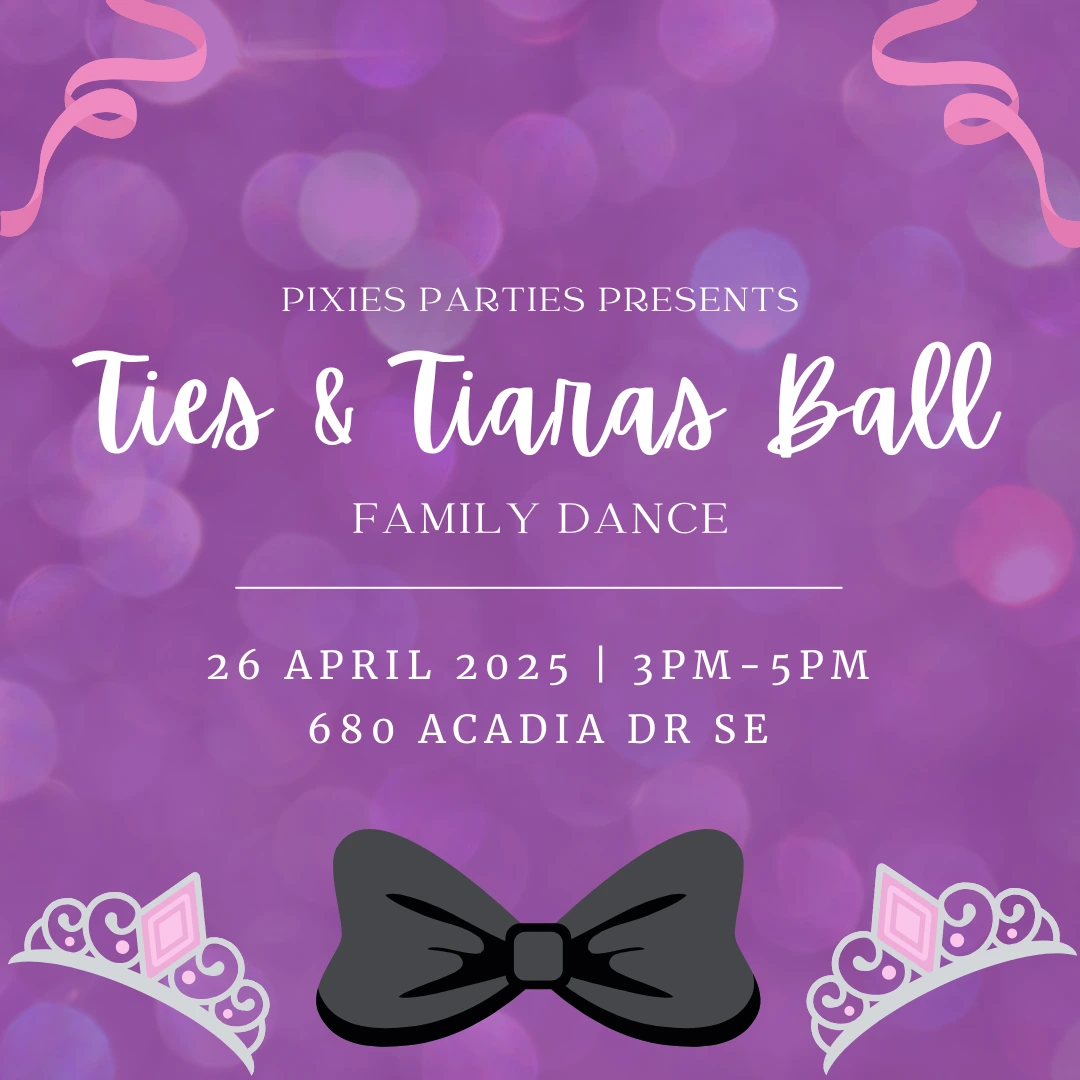
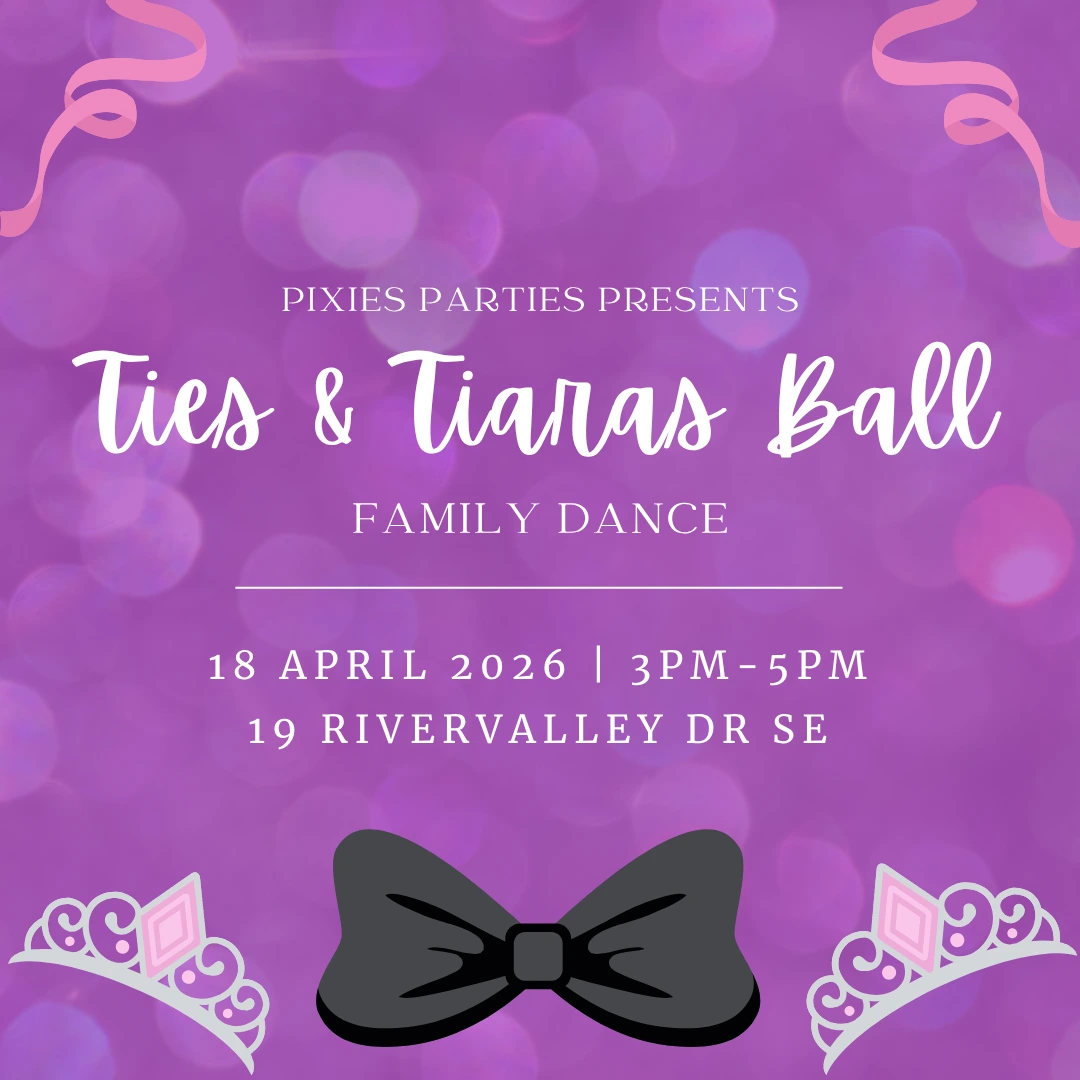
ties and tiaras ball 2026

Changed region(s): [[0.1833, 0.5806, 0.825, 0.7028]]

diff --git a/events.html b/events.html
@@ -17,18 +17,18 @@
       "@context": "https://schema.org",
       "@type": "SocialEvent",
       "name": "Ties and Tiaras Ball",
-      "startDate": "2025-04-26T15:00-06:00",
-      "endDate": "2025-04-26T17:00-06:00",
+      "startDate": "2026-04-18T15:00-06:00",
+      "endDate": "2026-04-18T17:00-06:00",
       "eventAttendanceMode": "https://schema.org/OfflineEventAttendanceMode",
       "eventStatus": "https://schema.org/EventScheduled",
       "location": {
         "@type": "Place",
-        "name": "Willow Ridge Community Association",
+        "name": "Riverbend Community Association",
         "address": {
           "@type": "PostalAddress",
-          "streetAddress": "680 Acadia Dr SE",
+          "streetAddress": "19 Rivervalley Drive SE",
           "addressLocality": "Calgary",
-          "postalCode": "T2J 0C1",
+          "postalCode": "T2C 3Z7",
           "addressRegion": "AB",
           "addressCountry": "CA"
         }
@@ -46,46 +46,46 @@
         {
             "@type": "AggregateOffer",
             "availability": "InStock",
-            "availabilityEnds": "2025-04-26T00:00:00Z",
-            "availabilityStarts": "2025-01-04T07:00:00Z",
-            "highPrice": 25,
+            "availabilityEnds": "2026-04-18T00:00:00Z",
+            "availabilityStarts": "2025-11-20T07:00:00Z",
+            "highPrice": 30,
             "lowPrice": 15,
             "priceCurrency": "CAD",
-            "url": "https://simpli.events/e/tiesandtiarasball2025",
-            "validFrom": "2025-01-04T07:00:00Z"
+            "url": "https://simpli.events/e/ties-and-tiaras-ball-2026",
+            "validFrom": "2025-11-20T07:00:00Z"
         },
         {
             "@type": "Offer",
             "availability": "InStock",
-            "availabilityEnds": "2025-04-26T00:00:00Z",
-            "availabilityStarts": "2025-01-04T07:00:00Z",
+            "availabilityEnds": "2026-04-18T00:00:00Z",
+            "availabilityStarts": "2025-11-20T07:00:00Z",
             "name": "Adult Admission",
             "price": 15,
             "priceCurrency": "CAD",
-            "url": "https://simpli.events/e/tiesandtiarasball2025",
-            "validFrom": "2025-01-04T07:00:00Z"
+            "url": "https://simpli.events/e/ties-and-tiaras-ball-2026",
+            "validFrom": "2025-11-20T07:00:00Z"
         },
         {
             "@type": "Offer",
             "availability": "InStock",
-            "availabilityEnds": "2025-04-26T00:00:00Z",
-            "availabilityStarts": "2025-01-04T07:00:00Z",
+            "availabilityEnds": "2026-04-18T00:00:00Z",
+            "availabilityStarts": "2025-11-20T07:00:00Z",
             "name": "Child Admission",
-            "price": 25,
+            "price": 30,
             "priceCurrency": "CAD",
-            "url": "https://simpli.events/e/tiesandtiarasball2025",
-            "validFrom": "2025-01-04T07:00:00Z"
+            "url": "https://simpli.events/e/ties-and-tiaras-ball-2026",
+            "validFrom": "2025-11-20T07:00:00Z"
         },
         {
             "@type": "Offer",
             "availability": "InStock",
-            "availabilityEnds": "2025-04-26T00:00:00Z",
-            "availabilityStarts": "2025-01-04T07:00:00Z",
+            "availabilityEnds": "2026-04-18T00:00:00Z",
+            "availabilityStarts": "2025-11-20T07:00:00Z",
             "name": "Tiara",
             "price": 15,
             "priceCurrency": "CAD",
-            "url": "https://simpli.events/e/tiesandtiarasball2025",
-            "validFrom": "2025-01-04T07:00:00Z"
+            "url": "https://simpli.events/e/ties-and-tiaras-ball-2026",
+            "validFrom": "2025-11-20T07:00:00Z"
         }
     ],
       "performer": {
@@ -143,29 +143,29 @@
 			<div class="card w-100 bg-secondary text-white mb-3">
 				<div class="row g-0 p-2">
 					<div class="col-md-5">
-					  <!-- <img src="assets/img/events/tiestiaras1.webp" class="img-fluid rounded-start" alt="Ties and Tiaras Ball 2025"> -->
+					  <!-- <img src="assets/img/events/tiestiaras1.webp" class="img-fluid rounded-start" alt="Ties and Tiaras Ball 2026"> -->
 					  <div id="carouselExample" class="carousel slide rounded-start carousel-fade" data-bs-ride="carousel">
 						  <div class="carousel-inner">
 							<div class="carousel-item active">
-							  <img src="assets/img/events/tiestiaras1.webp" class="d-block w-100" alt="Ties and Tiaras Ball 2025">
+							  <img src="assets/img/events/tiestiaras1.webp" class="d-block w-100" alt="Ties and Tiaras Ball 2026">
 							</div>
 							<div class="carousel-item">
-							  <img src="assets/img/events/ttb3.webp" class="d-block w-100" alt="Ties and Tiaras Ball 2025">
+							  <img src="assets/img/events/ttb3.webp" class="d-block w-100" alt="Ties and Tiaras Ball 2026">
 							</div>
 							<div class="carousel-item">
-							  <img src="assets/img/events/ttb2.webp" class="d-block w-100" alt="Ties and Tiaras Ball 2025">
+							  <img src="assets/img/events/ttb2.webp" class="d-block w-100" alt="Ties and Tiaras Ball 2026">
 							</div>
 							<div class="carousel-item">
-							  <img src="assets/img/events/ttb1.webp" class="d-block w-100" alt="Ties and Tiaras Ball 2025">
+							  <img src="assets/img/events/ttb1.webp" class="d-block w-100" alt="Ties and Tiaras Ball 2026">
 							</div>
 							<div class="carousel-item">
-							  <img src="assets/img/events/ttb4.webp" class="d-block w-100" alt="Ties and Tiaras Ball 2025">
+							  <img src="assets/img/events/ttb4.webp" class="d-block w-100" alt="Ties and Tiaras Ball 2026">
 							</div>
 							<div class="carousel-item">
-							  <img src="assets/img/events/crafts.webp" class="d-block w-100" alt="Ties and Tiaras Ball 2025">
+							  <img src="assets/img/events/crafts.webp" class="d-block w-100" alt="Ties and Tiaras Ball 2026">
 							</div>
 							<div class="carousel-item">
-							  <img src="assets/img/events/cakesbyfreya.webp" class="d-block w-100" alt="Ties and Tiaras Ball 2025">
+							  <img src="assets/img/events/cakesbyfreya.webp" class="d-block w-100" alt="Ties and Tiaras Ball 2026">
 							</div>
 						  </div>
 						  <button class="carousel-control-prev" type="button" data-bs-target="#carouselExample" data-bs-slide="prev">
@@ -181,14 +181,14 @@
 					<div class="col-md-1">
 					</div>
 					<div class="col-md-6" style="align-content: center;padding: 2rem;">
-						<h2 class="card-title">2025 Ties and Tiaras Ball</h2>
-						<p>Step into a magical world of fun and fantasy at the <strong>Ties and Tiaras Ball!</strong> Join us on <strong>Saturday, April 26th, 2025</strong>, from <strong>3:00 PM to 5:00 PM</strong> at Willow Ridge Community Association, for an unforgettable afternoon filled with joy and family-friendly activities.</p>
+						<h2 class="card-title">2026 Ties and Tiaras Ball</h2>
+						<p>Step into a magical world of fun and fantasy at the <strong>Ties and Tiaras Ball!</strong> Join us on <strong>Saturday, April 18th, 2026</strong>, from <strong>3:00 PM to 5:00 PM</strong> at Riverbend Community Association, for an unforgettable afternoon filled with joy and family-friendly activities.</p>
 					</div>
 				</div>
 			  </div>
 		  <div class="text-center">
 			
-			<iframe src="https://simpli.events/e/tiesandtiarasball2025" style="width:100%;height:1000px;border:none;overflow:hidden;"></iframe>
+			<iframe src="https://simpli.events/e/ties-and-tiaras-ball-2026" style="width:100%;height:1000px;border:none;overflow:hidden;"></iframe>
 		  </div>
 	  </div>
     </section>

diff --git a/index.html b/index.html
@@ -126,25 +126,25 @@
 		  <a class="col btn btn-secondary" aria-label="availability" href="#booking" style="text-wrap-mode: nowrap;">Availability</a> 
 		  <a class="col btn btn-secondary" aria-label="booking" href="#booking" style="text-wrap-mode: nowrap;">Booking</a>
         </div>
-		<!-- <div class="card w-100 bg-white text-secondary">
+		<div class="card w-100 bg-white text-secondary">
 			<div class="row g-0 p-2">
 				<div class="col-md-5">
 				  <div id="carouselExample" class="carousel slide rounded-start carousel-fade" data-bs-ride="carousel">
 					  <div class="carousel-inner">
 						<div class="carousel-item active">
-						  <img src="assets/img/events/tiestiaras1.webp" class="d-block w-100" alt="Ties and Tiaras Ball 2025">
+						  <img src="assets/img/events/tiestiaras1.webp" class="d-block w-100" alt="Ties and Tiaras Ball 2026">
 						</div>
 						<div class="carousel-item">
-						  <img src="assets/img/events/ttb3.webp" class="d-block w-100" alt="Ties and Tiaras Ball 2025">
+						  <img src="assets/img/events/ttb3.webp" class="d-block w-100" alt="Ties and Tiaras Ball 2026">
 						</div>
 						<div class="carousel-item">
-						  <img src="assets/img/events/ttb2.webp" class="d-block w-100" alt="Ties and Tiaras Ball 2025">
+						  <img src="assets/img/events/ttb2.webp" class="d-block w-100" alt="Ties and Tiaras Ball 2026">
 						</div>
 						<div class="carousel-item">
-						  <img src="assets/img/events/ttb1.webp" class="d-block w-100" alt="Ties and Tiaras Ball 2025">
+						  <img src="assets/img/events/ttb1.webp" class="d-block w-100" alt="Ties and Tiaras Ball 2026">
 						</div>
 						<div class="carousel-item">
-						  <img src="assets/img/events/ttb4.webp" class="d-block w-100" alt="Ties and Tiaras Ball 2025">
+						  <img src="assets/img/events/ttb4.webp" class="d-block w-100" alt="Ties and Tiaras Ball 2026">
 						</div>
 					  </div>
 					  <button class="carousel-control-prev" type="button" data-bs-target="#carouselExample" data-bs-slide="prev">
@@ -160,12 +160,12 @@
 				<div class="col-md-1">
 				</div>
 				<div class="col-md-6" style="align-content: center;padding: 2rem;">
-					<h2 class="card-title">2025 Ties and Tiaras Ball</h2>
-					<p>Step into a magical world of fun and fantasy at the <strong>Ties and Tiaras Ball!</strong> Join us on <strong>Saturday, April 26th, 2025</strong>, from <strong>3:00 PM to 5:00 PM</strong> at Willow Ridge Community Association, for an unforgettable afternoon filled with joy and family-friendly activities.</p>
+					<h2 class="card-title">2026 Ties and Tiaras Ball</h2>
+					<p>Step into a magical world of fun and fantasy at the <strong>Ties and Tiaras Ball!</strong> Join us on <strong>Saturday, April 18th, 2026</strong>, from <strong>3:00 PM to 5:00 PM</strong> at Riverbend Community Association, for an unforgettable afternoon filled with joy and family-friendly activities.</p>
 					<a class="btn btn-secondary c1 mt-4" aria-label="book now" target="_blank" href="events.html">Tickets Available Now!</a>
 				</div>
 			</div>
-		  </div> -->
+		  </div>
 	  </div>
     </section>
     <section class="page-section bg-white text-secondary portfolio" id="characters">
